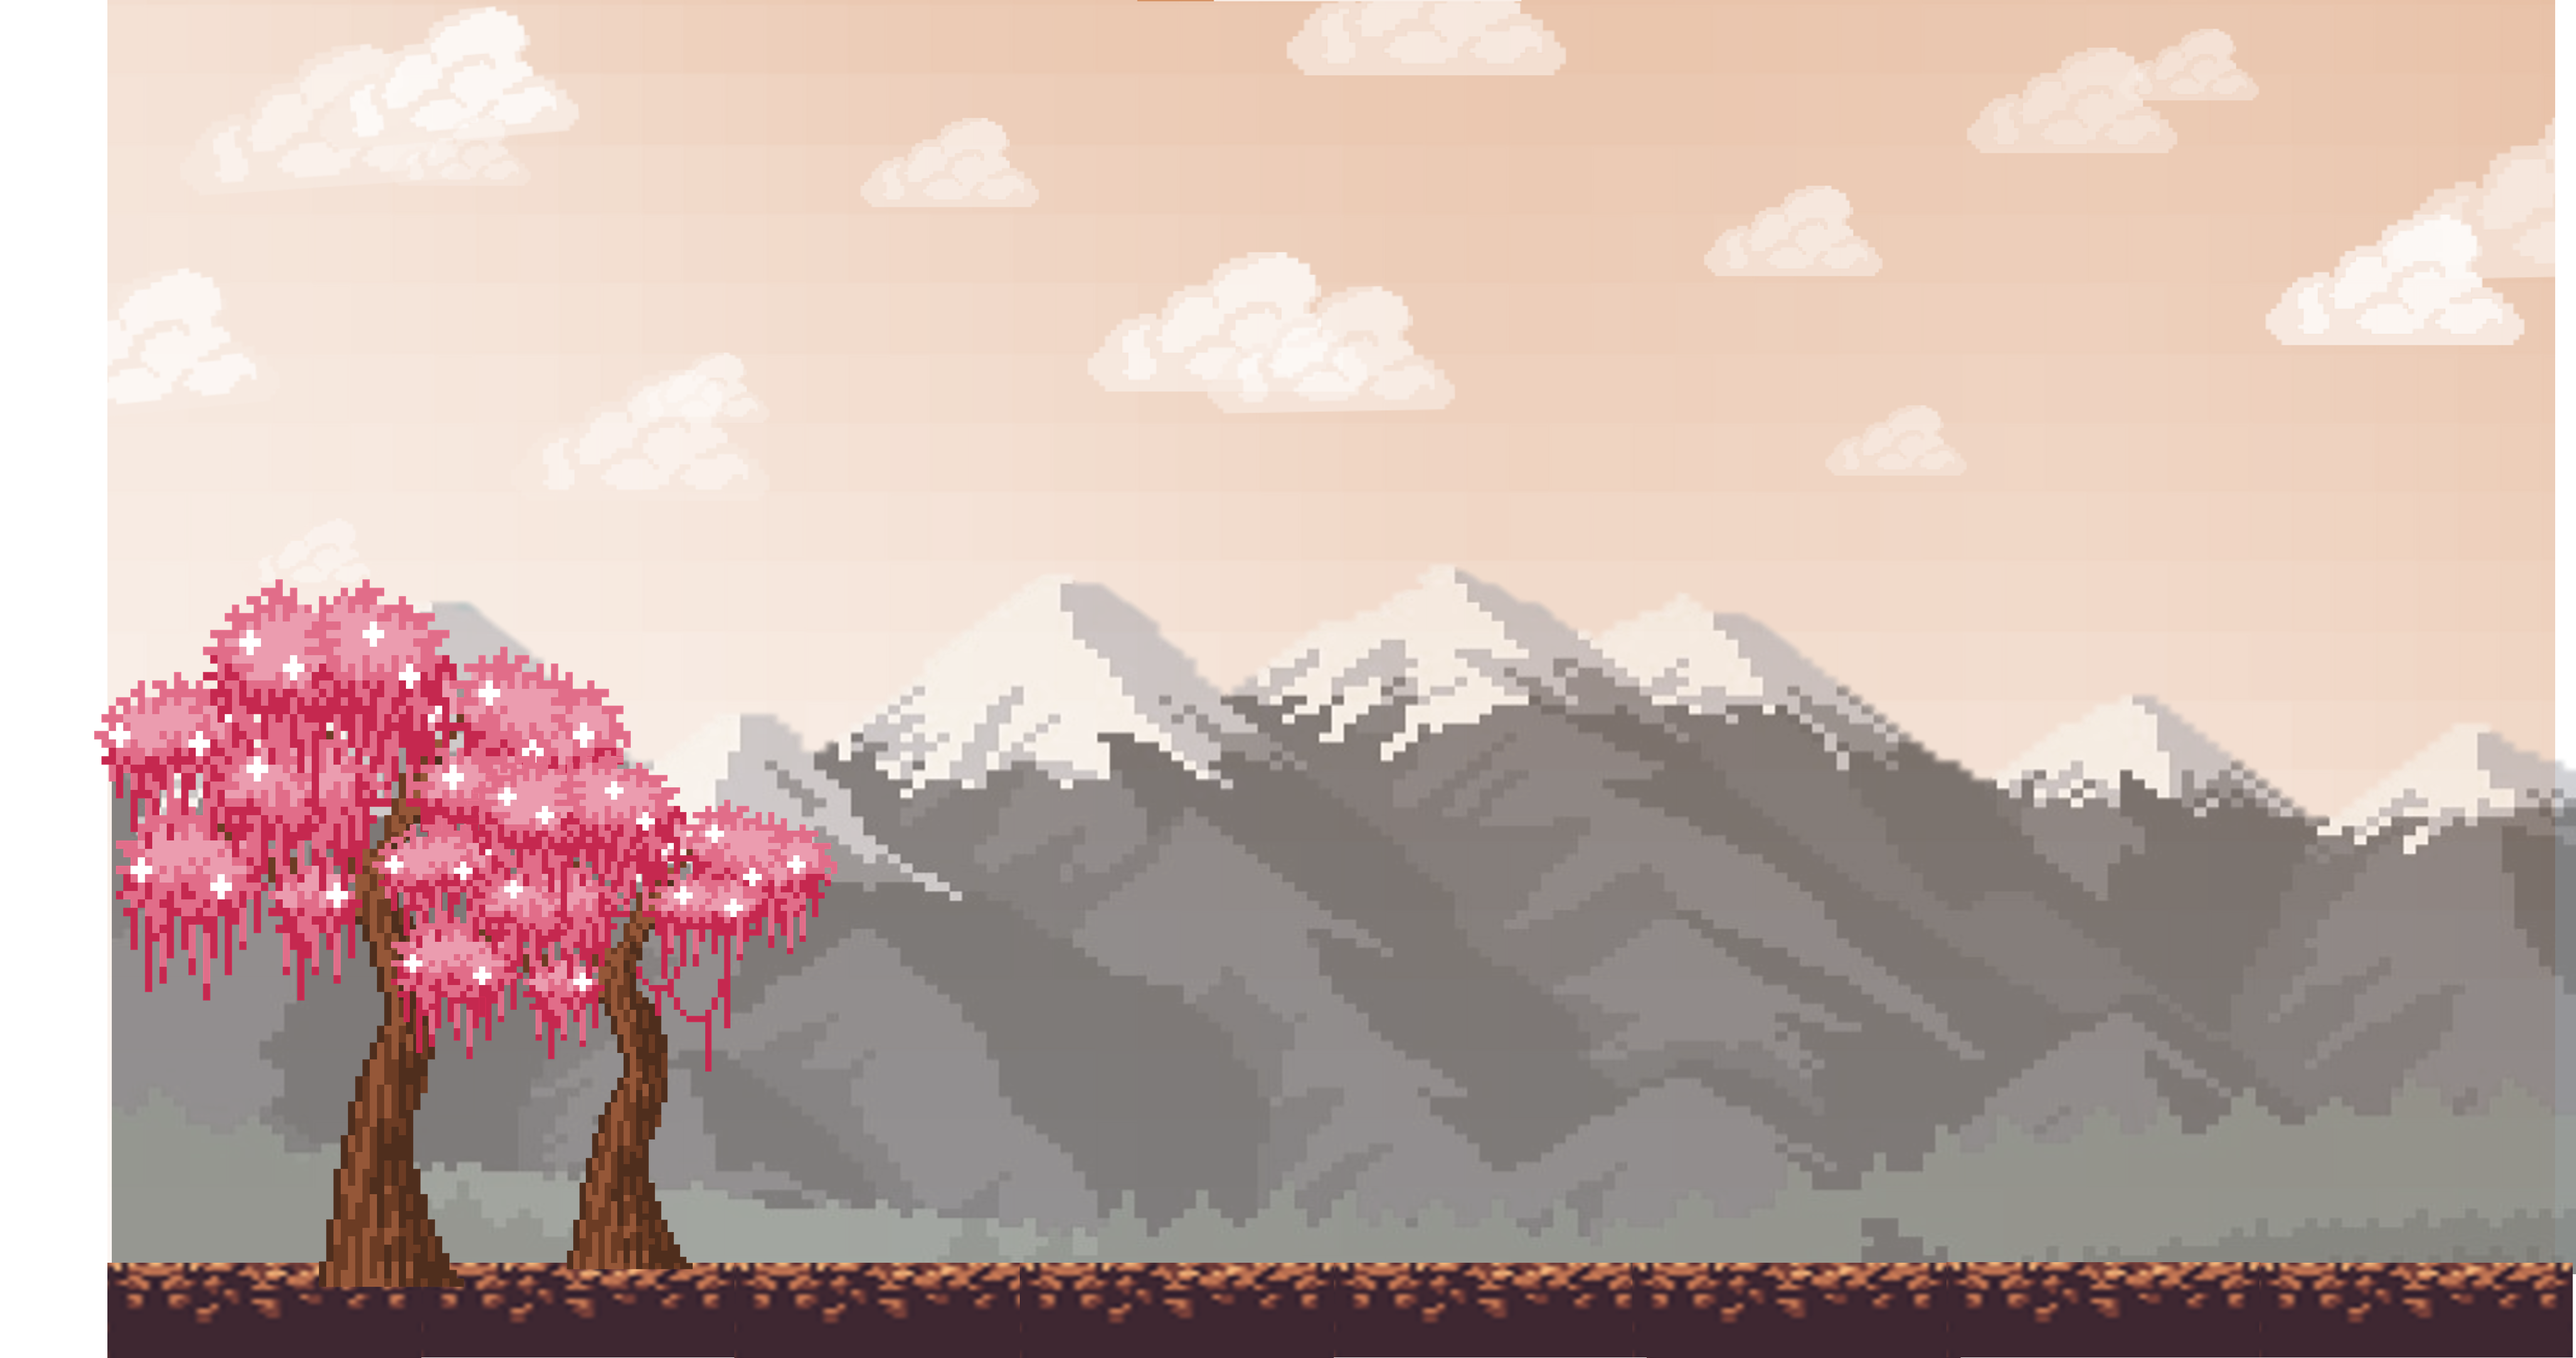
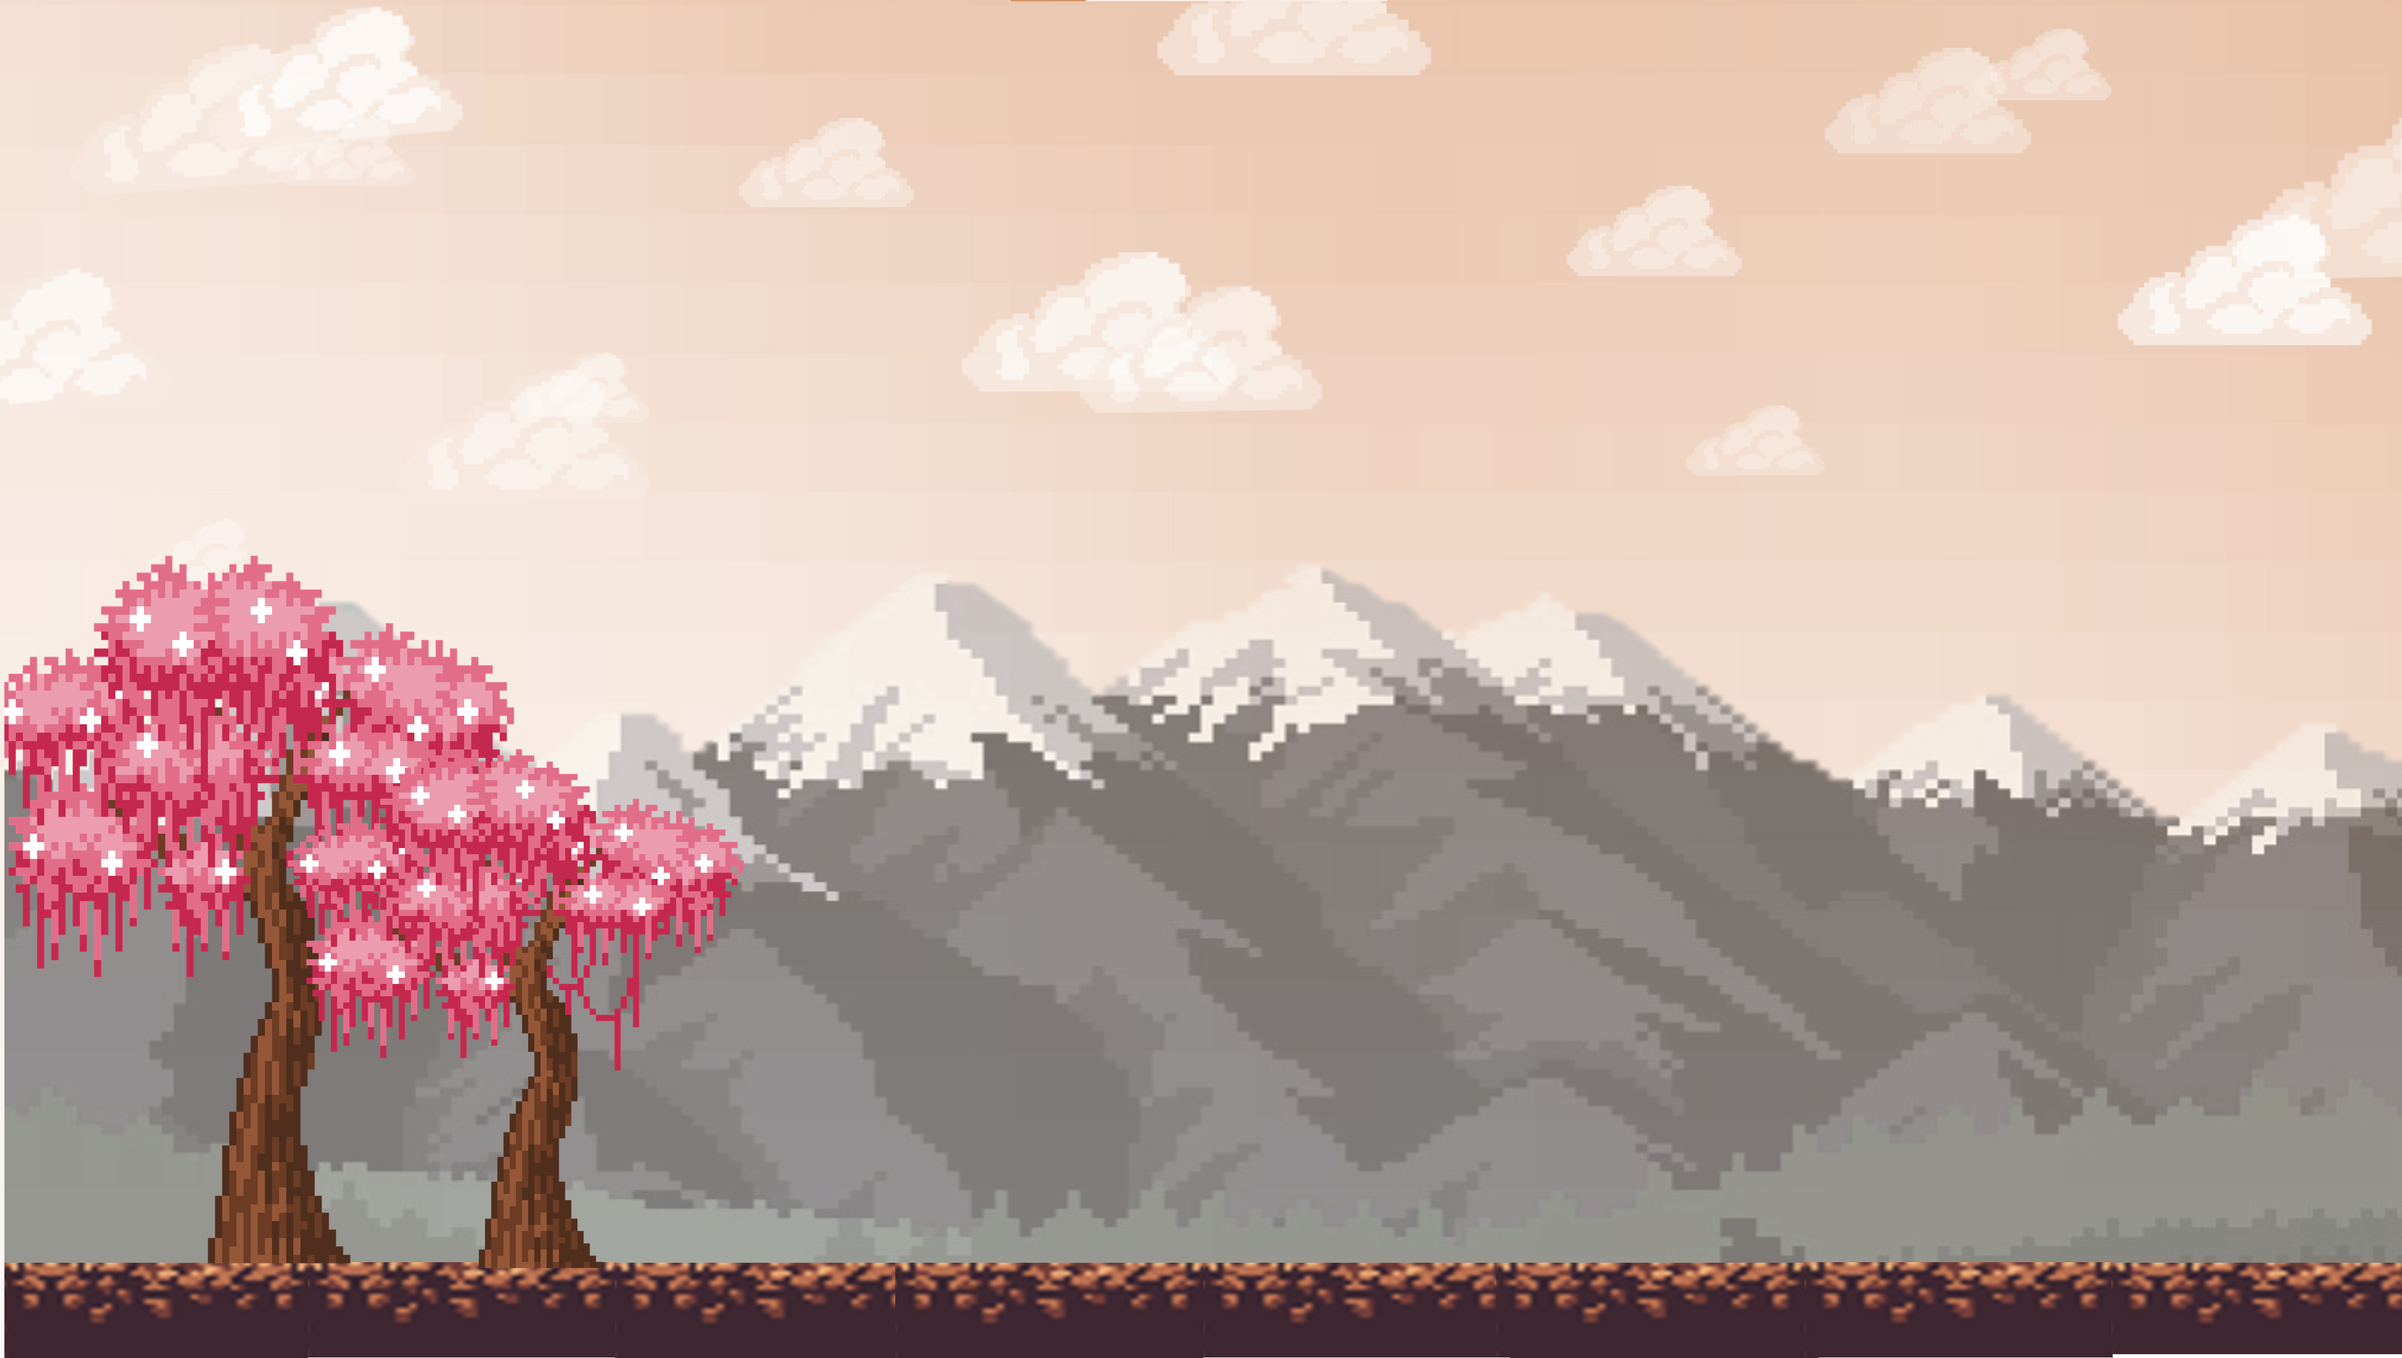
Se agregan fondos a las escenas nivelC1 - nivelC10

diff --git a/src/scenes/Bootloader.js b/src/scenes/Bootloader.js
@@ -59,6 +59,26 @@ class Bootloader extends Phaser.Scene{
         //PARA NIVEL B5
         this.load.image(['NivelB5/NivelB5_2','NivelB5/agua','NivelB5/agua2','NivelB5/pino','NivelB5/tierra','NivelB5/tierra2','NivelB5/reflejoMonstruo','NivelB5/tierra3']);
 
+        //PARA NIVEL C1
+        this.load.image(['NivelC1/NivelC1']);
+        //PARA NIVEL C2
+        this.load.image(['NivelC2/NivelC2']);
+        //PARA NIVEL C3
+        this.load.image(['NivelC3/NivelC3']);
+        //PARA NIVEL C4
+        this.load.image(['NivelC4/NivelC4']);
+        //PARA NIVEL C5
+        this.load.image(['NivelC5/NivelC5']);
+        //PARA NIVEL C6
+        this.load.image(['NivelC6/NivelC6']);
+        //PARA NIVEL C7
+        this.load.image(['NivelC7/NivelC7']);
+        //PARA NIVEL C8
+        this.load.image(['NivelC8/NivelC8']);
+        //PARA NIVEL C9
+        this.load.image(['NivelC9/NivelC9']);
+        //PARA NIVEL C3
+        this.load.image(['NivelC10/NivelC10']);
         //PARA ESCENA A
         // this.load.image(['barraArriba1', 'barraArriba2', 'barraArriba3', 'barraArriba4', 'barraPuerta', 'puerta', 'barraCF1', 'barraCF2', 
         // 'cuerda', 'torre1', 'torre2', 'torre3', 'torre4', 'torre5', 'barraElevador', 'picos', 'barraTiempo', 'escalar', 'barraDiagonal',
@@ -82,7 +102,7 @@ class Bootloader extends Phaser.Scene{
     }
 
     create(){
-        this.scene.start('NivelC1');
+        this.scene.start('NivelC10');
         //this.scene.launch('Menu');
         //console.log(this.scene.manager.scenes)
     }

diff --git a/src/main.js b/src/main.js
@@ -22,14 +22,14 @@ import NivelB5 from "./scenes/NivelB5.js";
 //NIVEL C
 import NivelC1 from "./scenes/NivelC1.js";
 import NivelC2 from "./scenes/NivelC2.js";
-// import NivelC3 from "./scenes/NivelC3.js";
-// import NivelC4 from "./scenes/NivelC4.js";
-// import NivelC5 from "./scenes/NivelC5.js";
-// import NivelC6 from "./scenes/NivelC6.js";
-// import NivelC7 from "./scenes/NivelC7.js";
-// import NivelC8 from "./scenes/NivelC8.js";
-// import NivelC9 from "./scenes/NivelC9.js";
-// import NivelC10 from "./scenes/NivelC10.js";
+import NivelC3 from "./scenes/NivelC3.js";
+import NivelC4 from "./scenes/NivelC4.js";
+import NivelC5 from "./scenes/NivelC5.js";
+import NivelC6 from "./scenes/NivelC6.js";
+//import NivelC7 from "./scenes/NivelC7.js";
+//import NivelC8 from "./scenes/NivelC8.js";
+import NivelC9 from "./scenes/NivelC9.js";
+import NivelC10 from "./scenes/NivelC10.js";
 
 
 const config = {
@@ -47,8 +47,8 @@ const config = {
     scene: [Bootloader,Menu,
         NivelA, NivelA1,NivelA2, NivelA3,NivelA4,NivelA6,
         NivelA5,NivelA7,NivelB1,NivelB2,NivelB3,NivelB4,NivelB5,
-        NivelC1,
-        // NivelC2,NivelC3,NivelC4,NivelC5,NivelC6,NivelC7,NivelC8,NivelC9,NivelC10,
+        NivelC1, NivelC2,NivelC3,NivelC4,NivelC5,NivelC6,//NivelC7,NivelC8,
+        NivelC9,NivelC10,
         SceneA,SceneB,HUD,GameOver,Win],    //Aquí irá la lista de scenas del juego
     banner:{
         hidePhaser: true,

diff --git a/src/scenes/NivelC10.js b/src/scenes/NivelC10.js
@@ -1,0 +1,31 @@
+class NivelC10 extends Phaser.Scene{
+    constructor(){
+        super({
+            key: 'NivelC10'
+        });
+    }
+
+    init() {
+        console.log('Escena NivelC10');
+    }
+    
+    create() {
+        //BOUNDS DE ESCENA
+        this.physics.world.setBounds(250,0,1580, 630)
+        
+        //CAMARA INICIAL EFECTO FADE IN
+        this.cameras.main.setBounds(0, 0, 1580, 780);
+        this.cameras.main.fadeIn(2000);
+        
+        //FONDO
+        this.fondo = this.add.image(790, 385, 'NivelC10/NivelC10').setDepth(-2).setScale(.36,.32);
+        
+    }
+
+
+    update(time, delta) {
+    }
+
+}
+
+export default NivelC10;

diff --git a/src/scenes/NivelC3.js b/src/scenes/NivelC3.js
@@ -1,0 +1,31 @@
+class NivelC3 extends Phaser.Scene{
+    constructor(){
+        super({
+            key: 'NivelC3'
+        });
+    }
+
+    init() {
+        console.log('Escena NivelC3');
+    }
+    
+    create() {
+        //BOUNDS DE ESCENA
+        this.physics.world.setBounds(250,0,1580, 630)
+        
+        //CAMARA INICIAL EFECTO FADE IN
+        this.cameras.main.setBounds(0, 0, 1580, 780);
+        this.cameras.main.fadeIn(2000);
+        
+        //FONDO
+        this.fondo = this.add.image(790, 385, 'NivelC3/NivelC3').setDepth(-2).setScale(.36,.32);
+        
+    }
+
+
+    update(time, delta) {
+    }
+
+}
+
+export default NivelC3;

diff --git a/src/scenes/NivelC4.js b/src/scenes/NivelC4.js
@@ -1,0 +1,31 @@
+class NivelC4 extends Phaser.Scene{
+    constructor(){
+        super({
+            key: 'NivelC4'
+        });
+    }
+
+    init() {
+        console.log('Escena NivelC4');
+    }
+    
+    create() {
+        //BOUNDS DE ESCENA
+        this.physics.world.setBounds(250,0,1580, 630)
+        
+        //CAMARA INICIAL EFECTO FADE IN
+        this.cameras.main.setBounds(0, 0, 1580, 780);
+        this.cameras.main.fadeIn(2000);
+        
+        //FONDO
+        this.fondo = this.add.image(790, 385, 'NivelC4/NivelC4').setDepth(-2).setScale(.36,.32);
+        
+    }
+
+
+    update(time, delta) {
+    }
+
+}
+
+export default NivelC4;

diff --git a/src/scenes/NivelC5.js b/src/scenes/NivelC5.js
@@ -1,0 +1,31 @@
+class NivelC5 extends Phaser.Scene{
+    constructor(){
+        super({
+            key: 'NivelC5'
+        });
+    }
+
+    init() {
+        console.log('Escena NivelC5');
+    }
+    
+    create() {
+        //BOUNDS DE ESCENA
+        this.physics.world.setBounds(250,0,1580, 630)
+        
+        //CAMARA INICIAL EFECTO FADE IN
+        this.cameras.main.setBounds(0, 0, 1580, 780);
+        this.cameras.main.fadeIn(2000);
+        
+        //FONDO
+        this.fondo = this.add.image(790, 385, 'NivelC5/NivelC5').setDepth(-2).setScale(.36,.32);
+        
+    }
+
+
+    update(time, delta) {
+    }
+
+}
+
+export default NivelC5;

diff --git a/src/scenes/NivelC6.js b/src/scenes/NivelC6.js
@@ -1,0 +1,31 @@
+class NivelC6 extends Phaser.Scene{
+    constructor(){
+        super({
+            key: 'NivelC6'
+        });
+    }
+
+    init() {
+        console.log('Escena NivelC6');
+    }
+    
+    create() {
+        //BOUNDS DE ESCENA
+        this.physics.world.setBounds(250,0,1580, 630)
+        
+        //CAMARA INICIAL EFECTO FADE IN
+        this.cameras.main.setBounds(0, 0, 1580, 780);
+        this.cameras.main.fadeIn(2000);
+        
+        //FONDO
+        this.fondo = this.add.image(790, 385, 'NivelC6/NivelC6').setDepth(-2).setScale(.36,.32);
+        
+    }
+
+
+    update(time, delta) {
+    }
+
+}
+
+export default NivelC6;

diff --git a/src/scenes/NivelC9.js b/src/scenes/NivelC9.js
@@ -1,0 +1,31 @@
+class NivelC9 extends Phaser.Scene{
+    constructor(){
+        super({
+            key: 'NivelC9'
+        });
+    }
+
+    init() {
+        console.log('Escena NivelC9');
+    }
+    
+    create() {
+        //BOUNDS DE ESCENA
+        this.physics.world.setBounds(250,0,1580, 630)
+        
+        //CAMARA INICIAL EFECTO FADE IN
+        this.cameras.main.setBounds(0, 0, 1580, 780);
+        this.cameras.main.fadeIn(2000);
+        
+        //FONDO
+        this.fondo = this.add.image(790, 385, 'NivelC9/NivelC9').setDepth(-2).setScale(.36,.32);
+        
+    }
+
+
+    update(time, delta) {
+    }
+
+}
+
+export default NivelC9;

diff --git a/src/scenes/NivelA4.js b/src/scenes/NivelA4.js
@@ -24,7 +24,7 @@ class  NivelA4 extends Phaser.Scene {
       this.cameras.main.setBounds(0, 0, 1580, 780);
       this.cameras.main.fadeIn(1000);
       //Imagen de Fondo
-      this.fondo = this.add.image(775, 370, 'NivelA4/NivelA4').setDepth(-2).setScale(.4,.35);
+      this.fondo = this.add.image(775, 360, 'NivelA4/NivelA4').setDepth(-2).setScale(1.5);
       //OBJETOS
       this.mesa = this.physics.add.staticImage(300, 630, 'NivelA4/mesa').setScale(2);
       this.mesa.body.setSize(145,15);

diff --git a/src/scenes/NivelA5.js b/src/scenes/NivelA5.js
@@ -23,7 +23,7 @@ class NivelA5 extends Phaser.Scene{
         //BANDERA MOVIMIENTO
         this.movimiento=0
 
-        this.fondo = this.add.image(775, 360, 'NivelA5/nivelA5').setDepth(-2).setScale(.37,.35);
+        this.fondo = this.add.image(770, 360, 'NivelA5/nivelA5').setDepth(-2)//.setScale(.35);
         this.physics.world.setBounds(0,0,1580, 700);
         //CAMARA INICIAL EFECTO FADE IN
         this.cameras.main.setBounds(0, 0, 1580, 780);

diff --git a/src/scenes/NivelC2.js b/src/scenes/NivelC2.js
@@ -17,7 +17,7 @@ class NivelC2 extends Phaser.Scene{
         this.physics.world.setBounds(0,0,1580,670);
 
         //IMAGENES DE FONDO
-        this.fondo = this.add.image(775, 360, 'NivelC2/NivelC2').setDepth(-2).setScale(.37,.35);
+        this.fondo = this.add.image(775, 360, 'NivelC2/NivelC2').setDepth(-2).setScale(.37,.33);
 
         //CAMARA INICIAL EFECTO FADE IN
         this.cameras.main.setBounds(0, 0, 1580, 780);
